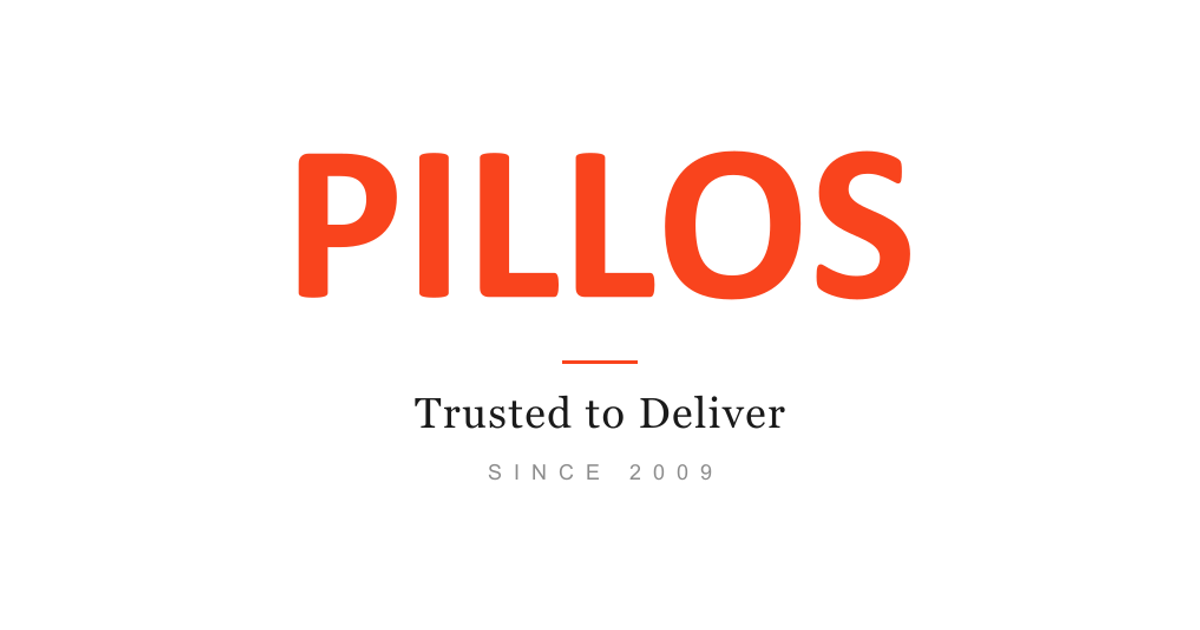
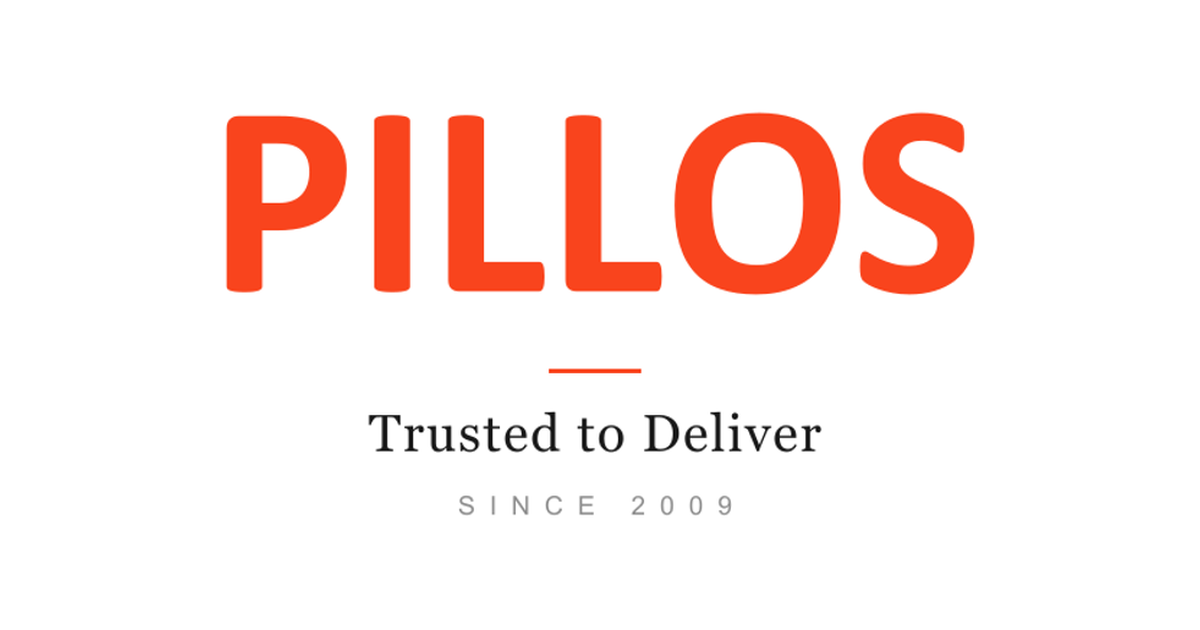
fix(content): 가운뎃점 제거, 영문 벌크 화물 목록 한글판과 동기화, 링크 미리보기 이미지 여백 정리
- Hydrochloric Acid tag의 가운뎃점(·)을 쉼표로 교체
- 영문 벌크 소개 문단에 한글판에만 있던 화물(코크스, 광물, 석회석, 보크사이트) 추가
- og-image.png 여백을 줄여 로고가 더 크게 보이도록 재작업

diff --git a/src/data/content.ts b/src/data/content.ts
@@ -176,7 +176,7 @@ export const services = {
         en: "Hydrochloric acid from the port of Yeosu under a long-standing petrochemical partnership. More than a decade incident-free.",
         ko: "여수항에서 국내 석유화학 기업과의 장기 파트너십 아래 염산을 운송합니다. 10년 이상 무사고 운항을 이어오고 있습니다",
       },
-      tag: { en: "Hydrochloric Acid · Yeosu", ko: "염산, 여수" },
+      tag: { en: "Hydrochloric Acid, Yeosu", ko: "염산, 여수" },
       accent: true,
     },
   ],
@@ -428,7 +428,7 @@ export const servicesTabs = {
       },
       paragraphs: [
         {
-          en: "Pillos runs dry bulk carriers from Handysize and Supramax up to Panamax and Kamsarmax. Trading in dry bulk since 2010, we utilize our own tonnage alongside chartered vessels to move critical raw materials including coal, iron ore, steel products, cement, and grain.",
+          en: "Pillos runs dry bulk carriers from Handysize and Supramax up to Panamax and Kamsarmax. Trading in dry bulk since 2010, we utilize our own tonnage alongside chartered vessels to move critical raw materials including coal, coke, iron ore, minerals, limestone, steel products, cement, grain, and bauxite.",
           ko: "필로스는 핸디사이즈와 수프라막스부터 파나막스, 캄사르막스에 이르는 다양한 벌크 선형을 운항합니다. 2010년부터 사선과 용선을 효율적으로 운용하며 석탄, 코크스, 철광석, 광물, 석회석, 철강재, 시멘트, 곡물, 보크사이트 등 도시와 산업 기반이 되는 원자재를 안정적으로 수송해 왔습니다.",
         },
         {
